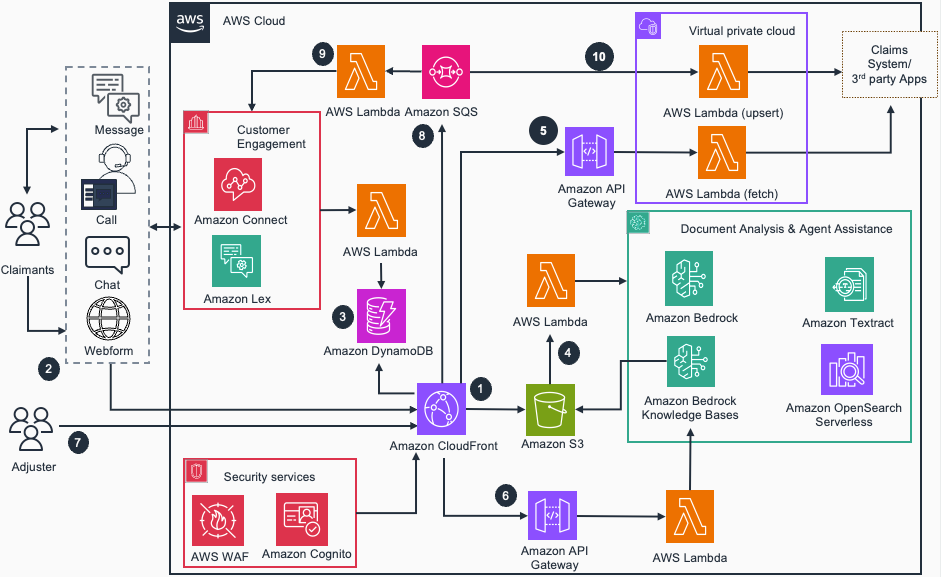
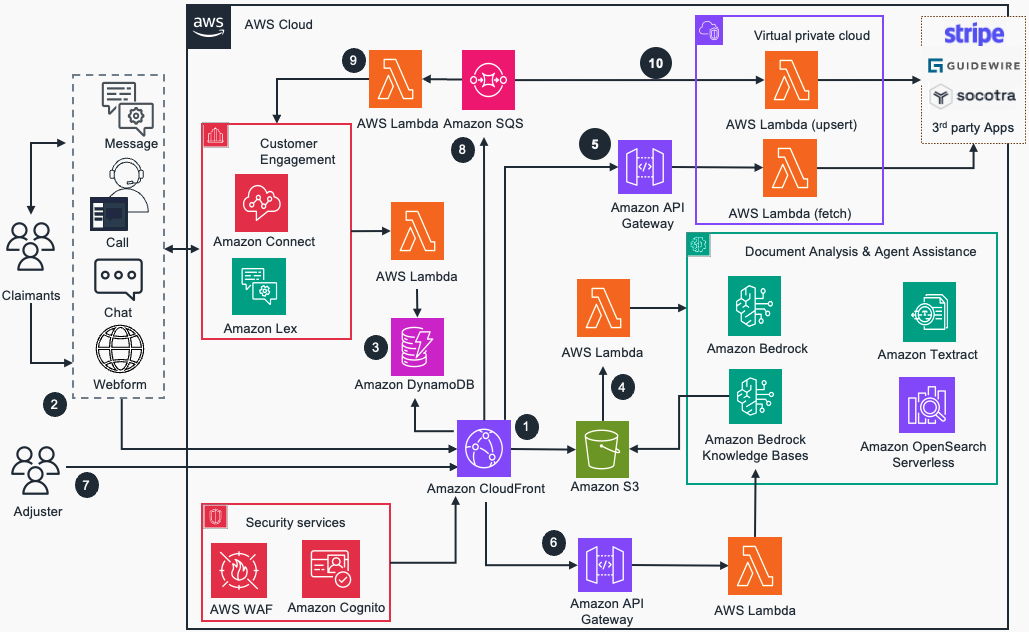
03-12-2025

diff --git a/README.md b/README.md
@@ -82,7 +82,7 @@ The above image represents an architecture that leverages various AWS services a
 
 9. AWS Lambda picks the messages from Amazon SQS and notifies the claimant the status of the claim request via Amazon Connect.
 
-10. AWS Lambda in a VPC picks the messages from Amazon SQS and updates 3rd party applications for further downstream processing (if required).
+10. AWS Lambda in a VPC picks the messages from Amazon SQS and updates 3rd party applications such as [Stripe](https://stripe.com/), [Guidewire](https://www.guidewire.com/), [Socotra](https://www.socotra.com/), etc for further downstream processing (if required).
 
 
 
